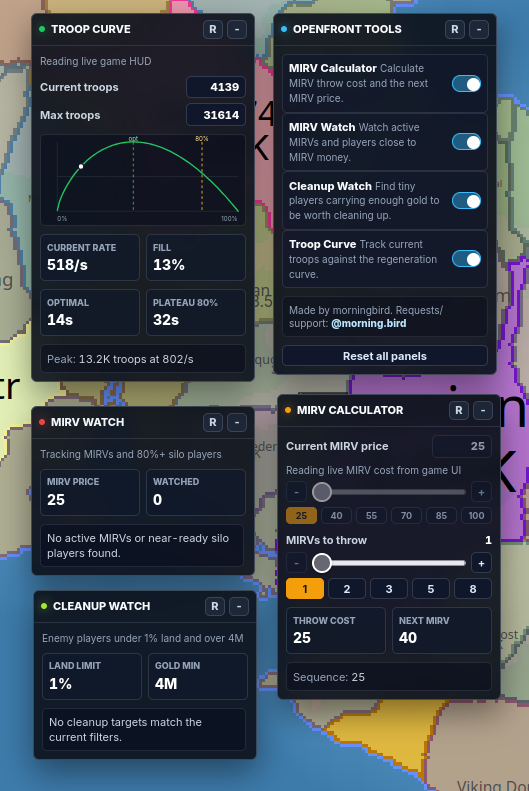
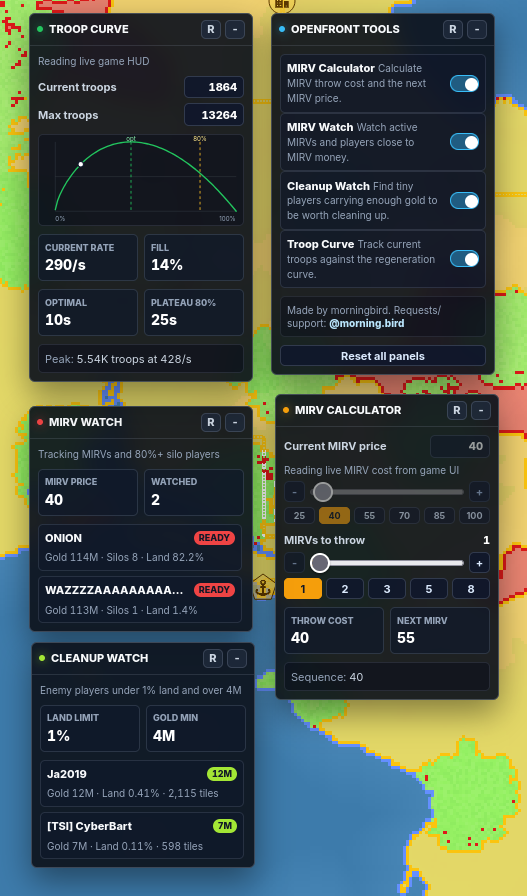
Update preview screenshot and release notes

diff --git a/docs/RELEASE.md b/docs/RELEASE.md
@@ -1,39 +1,31 @@
 # Release Process
 
-The README is user-facing. Keep release chores here so the public landing page stays focused on installing and using the script.
+Use this checklist when publishing a new version.
 
-1. Update `@version` in `openfront-tools.user.js`.
-2. Update the version badge and changelog in `README.md` and `CHANGELOG.md`.
-3. Run:
-
+1. Update version references:
+   - `@version` and `VERSION` in `openfront-tools.user.js`
+   - version badge in `README.md`
+   - top entry in `CHANGELOG.md`
+2. Check the script:
 ```sh
 node --check openfront-tools.user.js
 ```
 
-4. Commit the release:
-
+3. Commit and tag:
 ```sh
 git add openfront-tools.user.js README.md CHANGELOG.md docs/RELEASE.md
 git commit -m "Release vX.Y.Z"
-```
-
-5. Tag the release:
-
-```sh
 git tag vX.Y.Z
 git push origin main --tags
 ```
 
-6. Create a GitHub release and attach `openfront-tools.user.js`.
+4. Create a GitHub release:
+   - title: `OpenFront Tools vX.Y.Z`
+   - notes: copy the matching `CHANGELOG.md` section
+   - asset: attach `openfront-tools.user.js`
 
-Recommended release title:
+## Install URL
 
-```text
-OpenFront Tools vX.Y.Z
-```
-
-Recommended release notes:
-
-```text
-See CHANGELOG.md for details.
+```txt
+https://raw.githubusercontent.com/michaldaniel/openfront-tools-userscript/main/openfront-tools.user.js
 ```